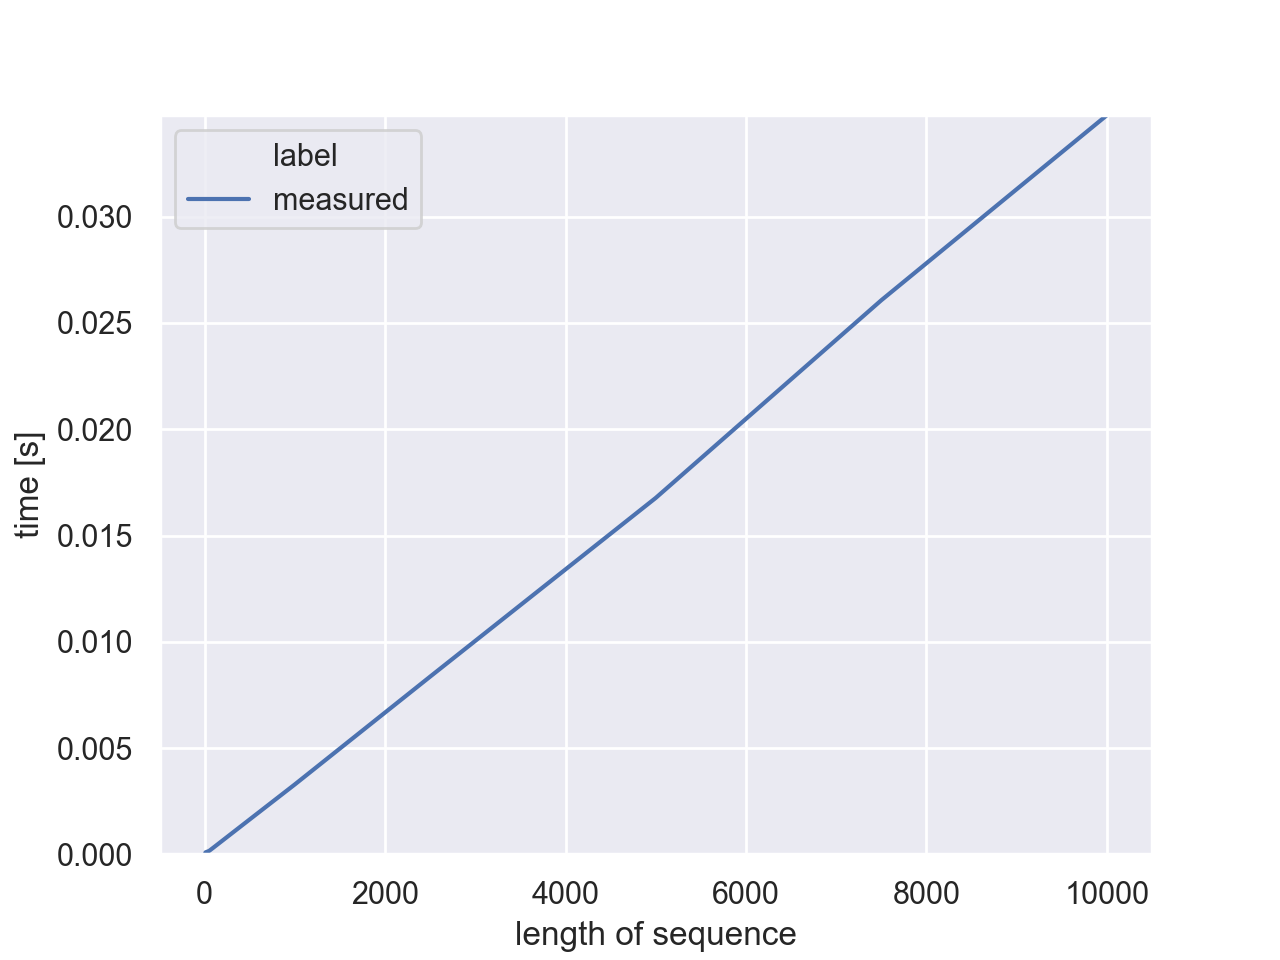
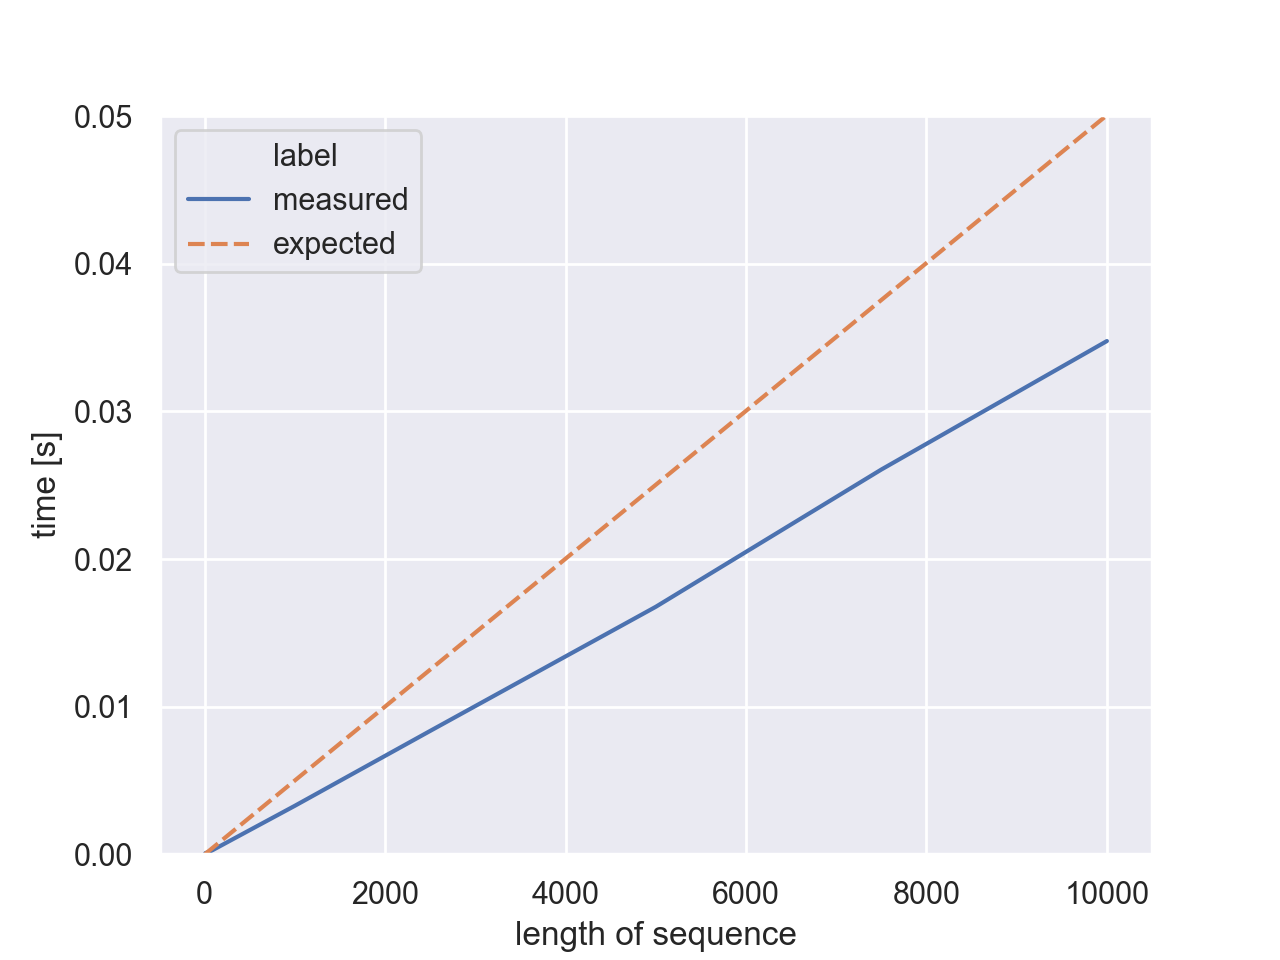
Add performance measures.

diff --git a/global_alignment_affine_gapcost.py b/global_alignment_affine_gapcost.py
@@ -8,6 +8,7 @@ from Bio import SeqIO
 from Bio.Seq import Seq
 from Bio.SeqRecord import SeqRecord
 
+
 # Default values
 cost = np.array([
     # A  C  G  T
@@ -51,21 +52,21 @@ def read_in_scoring_matrix(file):
 
 # Affine Alignment
 def affine_alignment(seq1, seq2, gap_start=5, gap_extend=5):
-    n=len(seq1) + 1
-    m=len(seq2) + 1
+    n = len(seq1) + 1
+    m = len(seq2) + 1
     S, D, I = np.zeros((n,m)), np.zeros((n,m)), np.zeros((n,m))
 
     for j in range(0,m):
         for i in range(0,n):
-            if i==0 and j==0:
+            if i == 0 and j == 0:
                 S[i,j] = 0
                 I[i,j] = gap_start
                 D[i,j] = gap_start
-            elif i==0:
+            elif i == 0:
                 I[i,j] = I[i,j-1] + gap_extend
                 S[i,j] = I[i,j]
                 D[i,j] = S[i,j]
-            elif j==0:
+            elif j == 0:
                 D[i,j] = D[i-1,j] + gap_extend
                 S[i,j] = D[i,j]
                 I[i,j] = S[i,j]
@@ -73,7 +74,7 @@ def affine_alignment(seq1, seq2, gap_start=5, gap_extend=5):
                 I[i,j]=min(I[i,j-1] + gap_extend,
                            S[i,j-1] + gap_start + gap_extend)
                 D[i,j]=min(D[i-1,j] + gap_extend,
-                           S[i-1,j] + gap_start+gap_extend)
+                           S[i-1,j] + gap_start + gap_extend)
                 S[i,j]=min(I[i,j],
                            D[i,j],
                            S[i-1,j-1] + cost[look_up[seq1[i-1]], look_up[seq2[j-1]]])
@@ -81,31 +82,31 @@ def affine_alignment(seq1, seq2, gap_start=5, gap_extend=5):
     return S
 
 
-def penalty(k, gap_extend=5, gap_start = 5):
-        return gap_start+k*gap_extend
+def penalty(k, gap_start, gap_extend):
+        return gap_start + k * gap_extend
 
 
-def traceback(matrix, seq1, seq2):
+def traceback(matrix, seq1, seq2, gap_start = 5, gap_extend = 5):
     i = len(seq1)
     j = len(seq2)
     align1 = ""
     align2 = ""
-    while i>0 and j>0:
+    while i > 0 and j > 0:
         if matrix[i,j] == matrix[i-1,j-1] + cost[look_up[seq1[i-1]], look_up[seq2[j-1]]]:
             align1 = str(seq1[i-1]) + align1
             align2 = str(seq2[j-1]) + align2
             i -= 1
             j -= 1
         else:
-            k=1
+            k = 1
             while True:
-                if matrix[i,j] == matrix[i,j-k] + penalty(k):
+                if matrix[i,j] == matrix[i,j-k] + penalty(k, gap_start, gap_extend):
                     align1 = "-" * k + align1
                     align2 = str(seq2[j-k:j]) + align2
                     j -= k
                     break
-                elif matrix[i,j] == matrix[i-k,j] + penalty(k):
-                    align1 = str(seq1[i-k:i])+align1
+                elif matrix[i,j] == matrix[i-k,j] + penalty(k, gap_start, gap_extend):
+                    align1 = str(seq1[i-k:i]) + align1
                     align2 = "-" * k + align2
                     i -= k
                     break
@@ -113,6 +114,36 @@ def traceback(matrix, seq1, seq2):
                     k += 1
 
     return align1, align2
+
+
+def measure_times():
+    """ Use this method to measure times of the algorithms using sequences of different length """
+    sequences = []
+    sequence_length = [5, 10, 50, 100, 500, 1000, 2500, 5000, 7500, 10000] # edit sequence
+
+    for seq_record in SeqIO.parse("sequences/rand_sequences.fasta", "fasta"):
+        sequences.append((seq_record.seq))
+
+    times_aff = []
+    times_back = []
+    n = len(sequences)
+    i = 0
+    while i < n:
+        # measure optimal alignment algorithm
+        start_aff = time.time()
+        aff = affine_alignment(sequences[i], sequences[i + 1], gapcost[0], gapcost[1])
+        end_aff = time.time()
+        times_aff.append(end_aff - start_aff)
+
+        # measure trace back algorithm
+        start_back = time.time()
+        aligned = traceback(aff, sequences[i], sequences[i + 1], gapcost[0], gapcost[1])
+        end_back = time.time()
+        times_back.append(end_back - start_back)
+        print("Round", i, "/", n)
+        i += 2
+
+    return times_aff, times_back
 
 
 def main():
@@ -150,12 +181,12 @@ def main():
     start_aff = time.time()
     aff = affine_alignment(seq1, seq2, gapcost[0], gapcost[1])
     end_aff = time.time()
-    print("\n", "Score of the optimal global optimal_alignment: ", aff[len(seq1), len(seq2)], "\n")
-    print("Calculating the optimal alignment took", end_aff - start_aff, "seconds.")
+    print("\nScore of the optimal global optimal_alignment: ", aff[len(seq1), len(seq2)])
+    print("Calculating the optimal alignment took", end_aff - start_aff, "seconds.\n")
 
     if print_statement == "y":
         start_back = time.time()
-        aligned = traceback(aff, seq1, seq2)
+        aligned = traceback(aff, seq1, seq2, gapcost[0], gapcost[1])
         end_back = time.time()
 
         #print("",aligned[0], "\n", aligned[1])
@@ -172,6 +203,11 @@ def main():
     result_file = "result_affine.fasta"
     SeqIO.write([record, record1], result_file, "fasta")
     print("Wrote results in fasta format to " +  result_file + ".")
+
+    # function for taking the performance measures
+    # times_aff, times_back = measure_times()
+    # print("Optimal alignment:", times_aff)
+    # print("Traceback", times_back)
 
 
 if __name__ == '__main__':

diff --git a/measurements/global_affine_plot.py b/measurements/global_affine_plot.py
@@ -1,0 +1,46 @@
+#!/usr/bin/python3
+# -*- coding: utf-8 -*-
+
+import pandas as pd
+import seaborn as sns
+import matplotlib.pyplot as plt
+
+
+def main():
+    sns.set(style="darkgrid") # set grid style of the plots
+
+    numbers = [5, 10, 50, 100, 500, 1000, 2500, 5000, 7500, 10000] # length of sequences
+    labels = ["measured"] * len(numbers) # set data label to measured
+    # times_back = [2.5272369384765625e-05, 4.1961669921875e-05, 0.00023984909057617188, 0.0003578662872314453, 0.0017561912536621094, 0.003718852996826172, 0.009850740432739258, 0.04775285720825195, 0.048211097717285156, 0.0675346851348877]
+    times_back = [2.6941299438476562e-05, 0.00013709068298339844, 0.0002129077911376953, 0.0003669261932373047, 0.0017430782318115234, 0.003720998764038086, 0.009377002716064453, 0.01937389373779297, 0.04137086868286133, 0.05624675750732422]
+
+    for i in range(len(numbers ) + 1):
+        times_back.append(times_back[0] / 5 * numbers[i])
+        numbers.append(numbers[i])
+        labels.append("expected")
+
+    # plot the measurements of the trace back algorithm
+    df1 = pd.DataFrame({'length of sequence': numbers, 'time [s]': times_back, 'label' : labels})
+    plot1 = sns.lineplot(x = 'length of sequence', y = 'time [s]', hue = 'label', color = 'green', style = 'label', data = df1)
+    plot1.set(ylim = (0, max(df1['time [s]'])))
+    plt.show()
+
+    numbers = [5, 10, 50, 100, 500, 1000, 2500, 5000, 7500, 10000] # length of sequences
+    labels = ["measured"] * len(numbers) # set data label to measured
+    # times_aff = [0.0003027915954589844, 0.0009229183197021484, 0.01734018325805664, 0.07471680641174316, 1.7508139610290527, 7.1654908657073975, 43.291638135910034, 186.4585838317871, 417.8935899734497, 712.7083909511566]
+    times_aff = [0.0002791881561279297, 0.0012280941009521484, 0.016415834426879883, 0.06594514846801758, 1.6978788375854492, 6.503705024719238, 40.73264408111572, 166.2349147796631, 373.72168827056885, 677.711991071701]
+
+    # add expected O(n^2) function and compare to measurements
+    for i in range(len(numbers ) + 1):
+        times_aff.append(times_aff[0] / 5 * numbers[i]**2 / 10)
+        numbers.append(numbers[i])
+        labels.append("expected")
+
+    df2 = pd.DataFrame({'length of sequence': numbers, 'time [s]': times_aff, 'label' : labels})
+    plot2 = sns.lineplot(x = 'length of sequence', y = 'time [s]', hue = 'label', style = 'label', data = df2)
+    plot2.set(ylim = (0, max(df2['time [s]'])))
+    plt.show()
+
+
+if __name__ == '__main__':
+    main()

diff --git a/measurements/global_linear_plot.py b/measurements/global_linear_plot.py
@@ -11,17 +11,24 @@ def main():
 
     numbers = [5, 10, 50, 100, 500, 1000, 2500, 5000, 7500, 10000] # length of sequences
     labels = ["measured"] * len(numbers) # set data label to measured
+    times_back = [2.5033950805664062e-05, 9.608268737792969e-05, 0.00016498565673828125, 0.00032806396484375, 0.0016469955444335938, 0.0032930374145507812, 0.008365154266357422, 0.016770124435424805, 0.02606797218322754, 0.034770965576171875]
+
+    for i in range(len(numbers ) + 1):
+        times_back.append((times_back[0] / 5) * numbers[i])
+        numbers.append(numbers[i])
+        labels.append("expected")
 
     # plot the measurements of the trace back algorithm
-    times_back = [2.5033950805664062e-05, 9.608268737792969e-05, 0.00016498565673828125, 0.00032806396484375, 0.0016469955444335938, 0.0032930374145507812, 0.008365154266357422, 0.016770124435424805, 0.02606797218322754, 0.034770965576171875]
     df1 = pd.DataFrame({'length of sequence': numbers, 'time [s]': times_back, 'label' : labels})
-    plot1 = sns.lineplot(x = 'length of sequence', y = 'time [s]', hue = 'label', color = 'green', data = df1)
+    plot1 = sns.lineplot(x = 'length of sequence', y = 'time [s]', hue = 'label', style = 'label', color = 'green', data = df1)
     plot1.set(ylim = (0, max(df1['time [s]'])))
     plt.show()
 
-    # add expected O(n^2) function and compare to measurements
+    numbers = [5, 10, 50, 100, 500, 1000, 2500, 5000, 7500, 10000] # length of sequences
+    labels = ["measured"] * len(numbers) # set data label to measured
     times_opt = [0.00017786026000976562, 0.0010161399841308594, 0.011538982391357422, 0.03510594367980957, 0.8658099174499512, 3.5476551055908203, 22.301820039749146, 91.95854210853577, 204.99176812171936, 360.73924803733826]
 
+    # add expected O(n^2) function and compare to measurements
     for i in range(len(numbers ) + 1):
         times_opt.append(times_opt[0] / 5 * numbers[i]**2 / 10)
         numbers.append(numbers[i])

diff --git a/global_alignment_linear_gapcost.py b/global_alignment_linear_gapcost.py
@@ -134,7 +134,6 @@ def measure_times():
         aligned = traceback(opt, sequences[i], sequences[i + 1])
         end_back = time.time()
         times_back.append(end_back - start_back)
-        print("Round", i, "/", (n / 2))
         i += 2
 
     return times_opt, times_back
@@ -175,8 +174,8 @@ def main():
     start_opt = time.time()
     opt = optimal_alignment(seq1, seq2)
     end_opt = time.time()
-    print("\n", "Score of the optimal global optimal_alignment: ", opt[len(seq1), len(seq2)], "\n")
-    print("Calculating the optimal alignment took", end_opt - start_opt, "seconds.")
+    print("\nScore of the optimal global optimal_alignment: ", opt[len(seq1), len(seq2)])
+    print("Calculating the optimal alignment took", end_opt - start_opt, "seconds.\n")
 
 
     if print_statement == "y":
